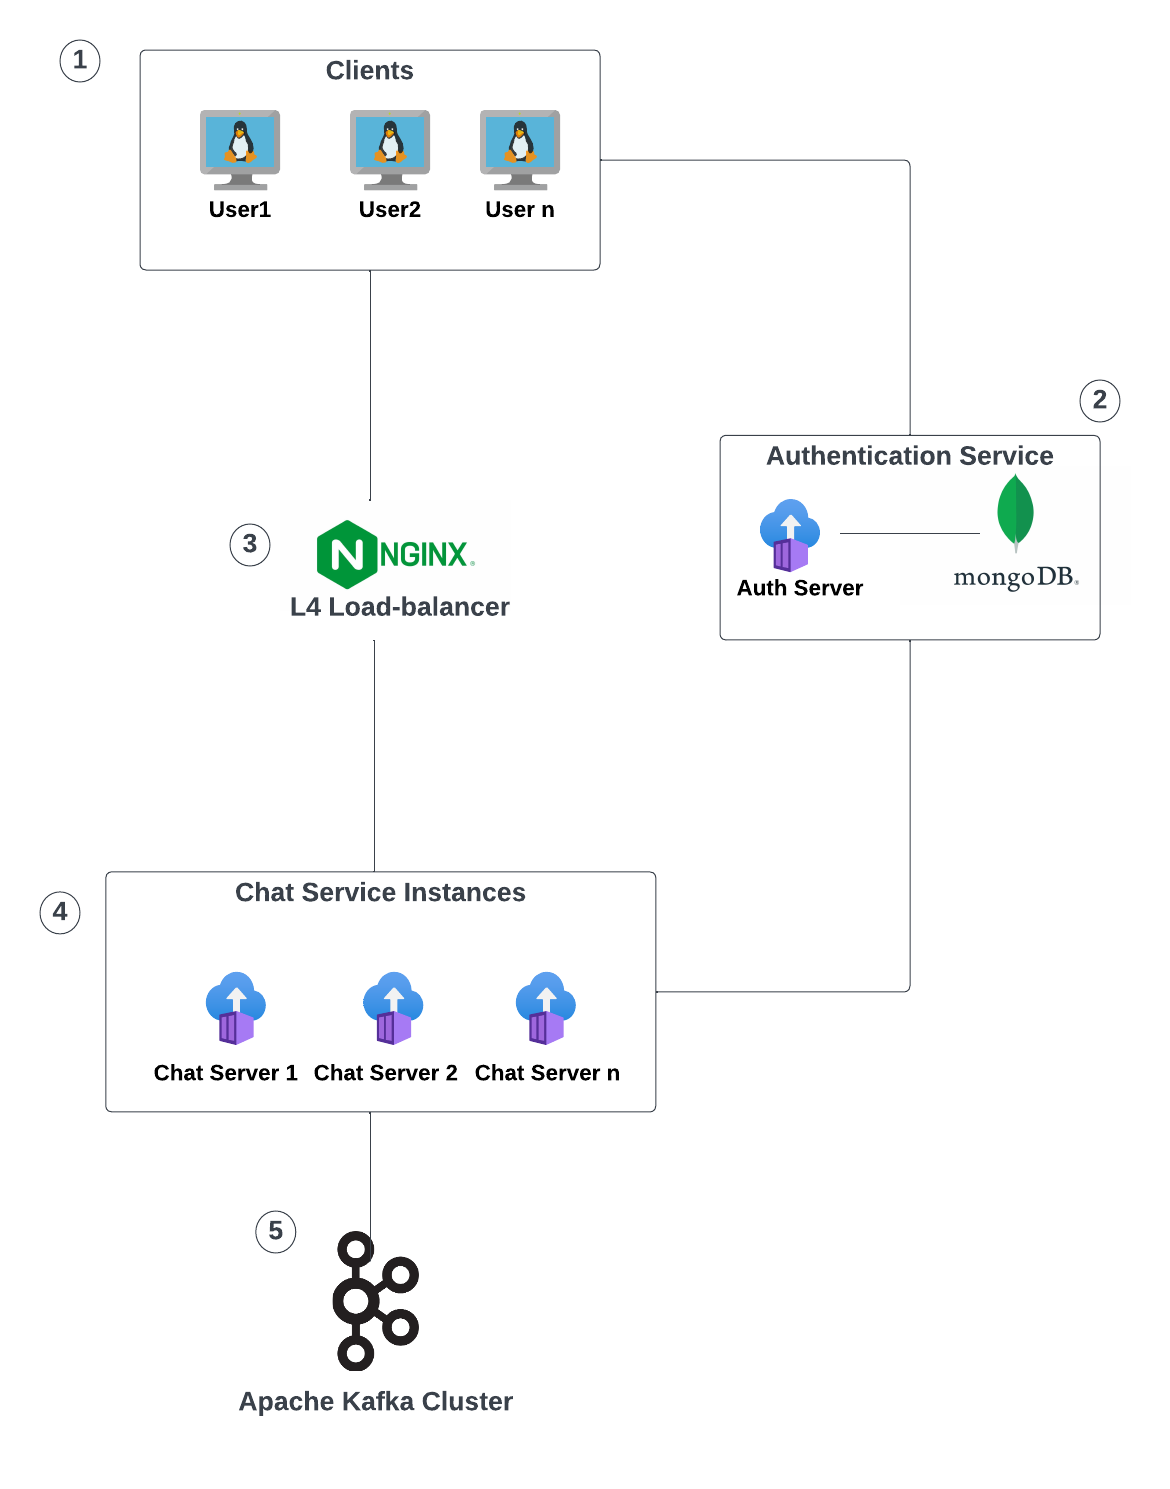
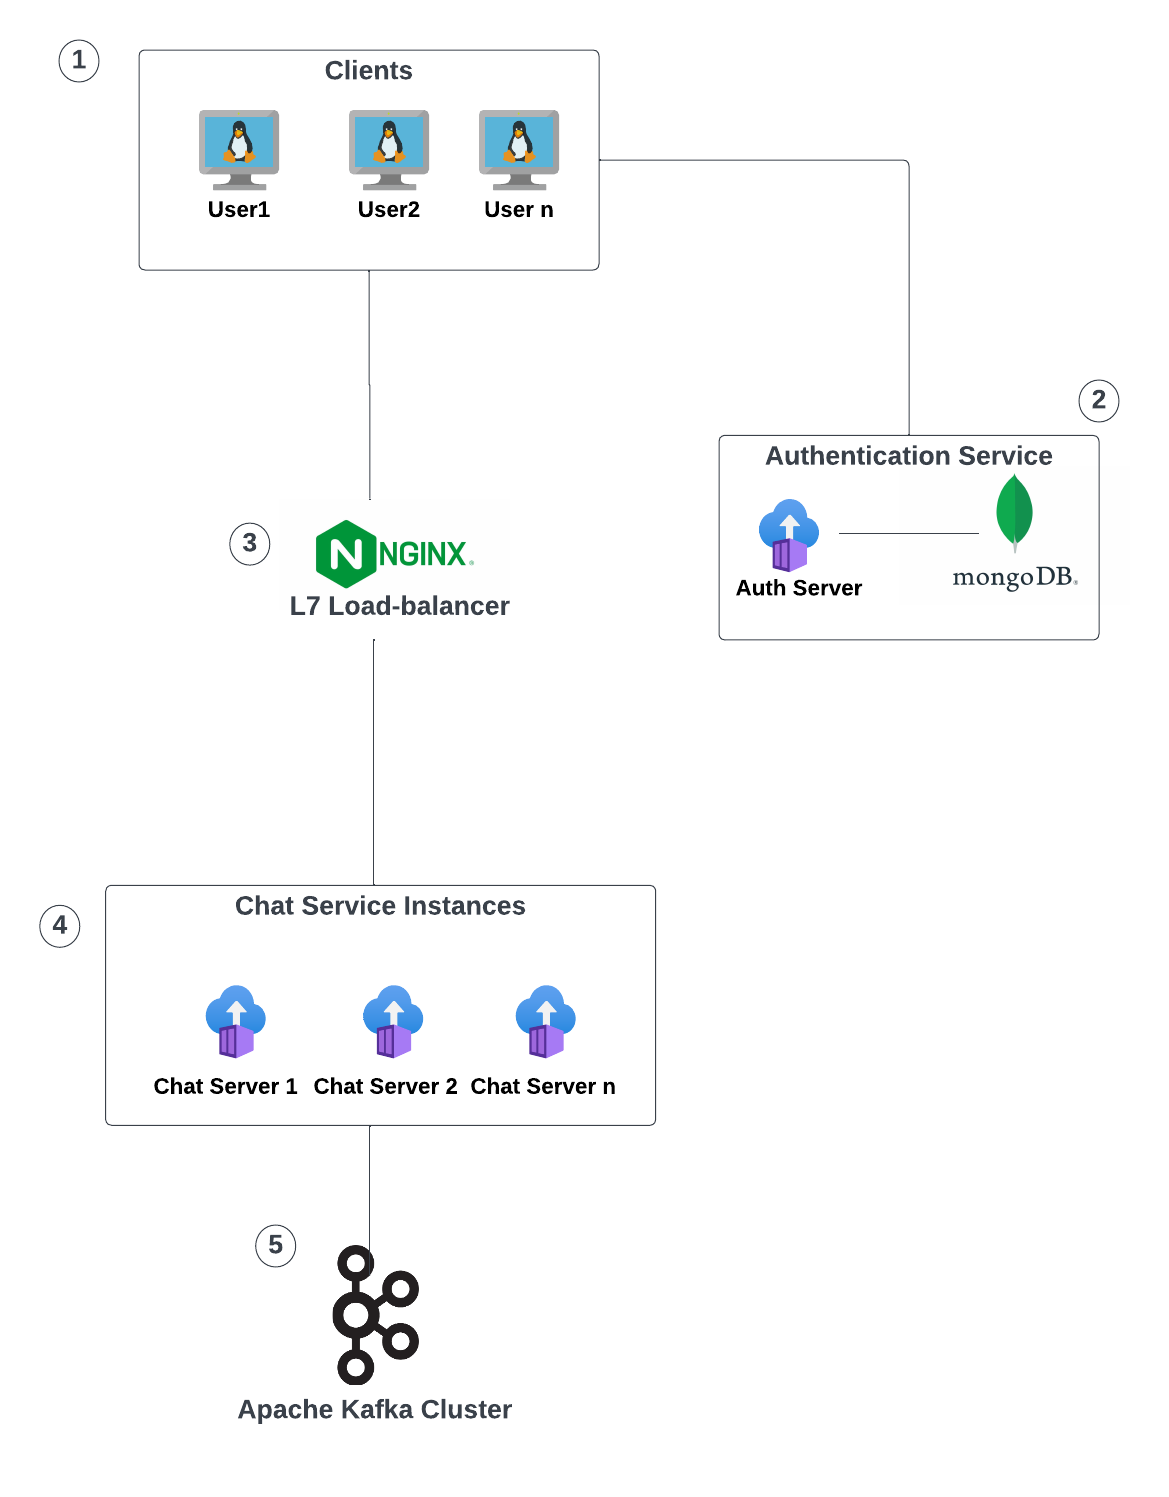
Update Documentation

diff --git a/spring-chatserver-chatapp/spring-chatapp/src/main/java/com/chatapp/springchatapp/KafkaProducer.java b/spring-chatserver-chatapp/spring-chatapp/src/main/java/com/chatapp/springchatapp/KafkaProducer.java
@@ -2,9 +2,6 @@ package com.chatapp.springchatapp;
 public class KafkaProducer {
 
 
-    public void sendKafkaMessage(String message){
-
-        
-    }
+    public void sendKafkaMessage(String message) {} 
     
 }

diff --git a/README.md b/README.md
@@ -1,5 +1,12 @@
 # Details
 This is a project to experiment with building a highly scalable chatapp using Angular, Spring-Boot, MongoDB, Nginx, and Apache Kafka
+# Higher Level Design:
+![Alt Text](doc/pengu_architecture.png)
+- Responsive Angular Front-End application used for Logging-In, Registering, Searching, and messaging other member on the platform.
+- Authentication Server powered by Spring-Boot RESTful Services is used for Authentication and session management (via producing JWT token) with the help of a MongoDB database used to store persisent data.
+- NGINX acts as the Reverse Proxy Loadbalancer used to authenticate (JWT validation) and distribute traffic evenly through the microservices of the system.
+- Chatapp Servers powered by Spring-Boot is used to manage the apps chat services using WebSockets as the API protocol for real-time messaging with the Front-End (note: max 100 concurrent connections per server).
+- Apache Kafka is the service used to store all the clients chat logs to provide a very fast, fault tolerant, and highly scalable real-time messaging system.
 # Port Allocation For Experimentation
 - NGINX: 60430
 - Chatapp site (Angular Frontend): 4200
@@ -16,3 +23,4 @@ This is a project to experiment with building a highly scalable chatapp using An
 - Apache Kafka Broker 3: 53622
 - Apache Kafka Broker 4: 53623
 - Apache Kafka Broker 5: 53624
+
